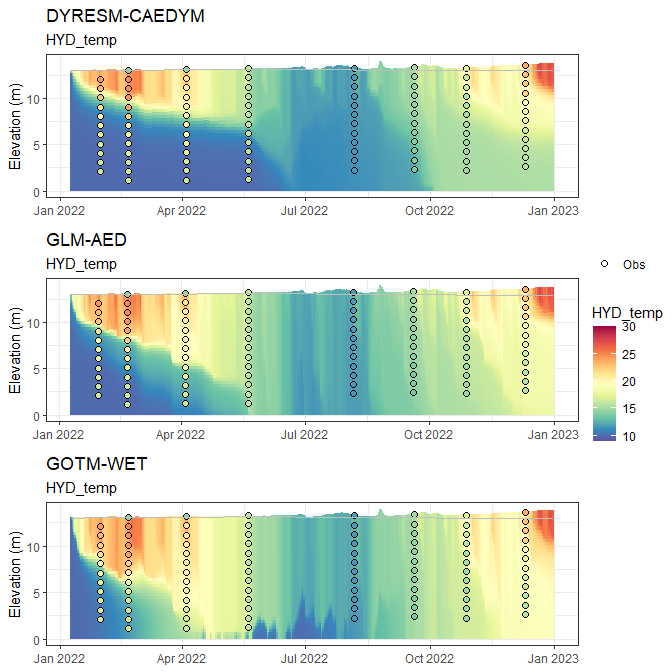
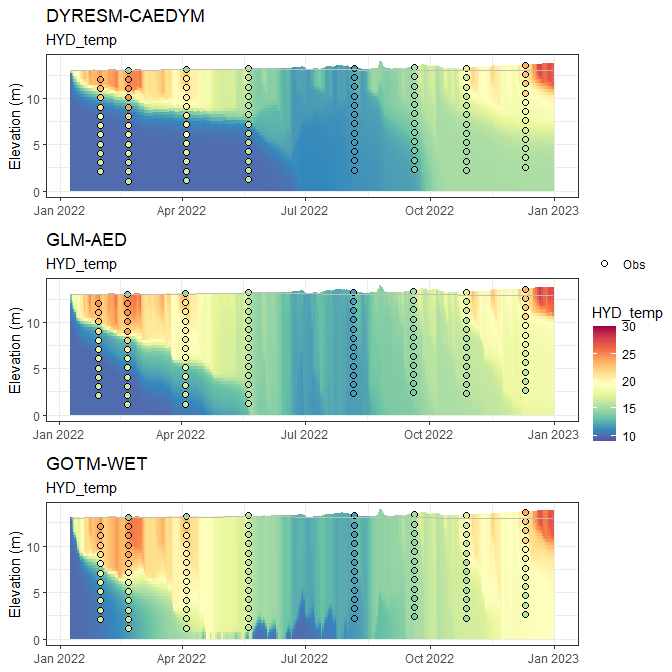
Updated README

diff --git a/README.md b/README.md
@@ -55,22 +55,39 @@ mod_ctrls <- read.csv(file.path(path, "model_controls.csv"))
 inf_factor = c("dy_cd" = 1, "glm_aed" = 1, "gotm_wet" = 1)
 outf_factor = c("dy_cd" = 1, "glm_aed" = 1, "gotm_wet" = 1)
 model <- c("dy_cd", "glm_aed", "gotm_wet")
-aeme_data <- build_ensemble(path = path, aeme_data = aeme_data, model = model, mod_ctrls = mod_ctrls, inf_factor = inf_factor, ext_elev = 5, use_bgc = FALSE, use_lw = TRUE)
-#> Building simulation for Wainamu [2023-09-01 15:33:29.049674]
+aeme_data <- build_ensemble(path = path, aeme_data = aeme_data, model = model, mod_ctrls = mod_ctrls, inf_factor = inf_factor, ext_elev = 5, use_bgc = TRUE, use_lw = TRUE)
+#> Building simulation for Wainamu [2023-09-05 12:39:16.413652]
 #> Using observed water level
 #> Estimating temperature using Stefan & Preud'homme (2007)...
 #> Building DYRESM-CAEDYM for lake wainamu
 #> Copied in DYRESM par file
+#> [1] "TEMPTURE SALINITY DO PO4 DOPL POPL PIP TP NH4 NO3 DONL PONL TN DOCL POCL SiO2 CYANO CHLOR FDIAT TCHLA SSOL1"
 #> Downsampling bathymetry
 #> Building GLM3-AED2 model for lake wainamu
 #> Copied in GLM nml file
+#> Copied in AED nml file
+#>    oxy_initial   = 625 replaced with 312.5
+#>    frp_initial = 0.3229 replaced with 0.3229
+#>      dop_initial  = 0.3229 replaced with 0.3229
+#>      pop_initial  = 0.3229 replaced with 0.3229
+#>    amm_initial = 1.4279 replaced with 1.4279
+#>    nit_initial = 1.0709 replaced with 1.0709
+#>      don_initial  = 21.4183 replaced with 21.4183
+#>      pon_initial  = 7.1394 replaced with 7.1394
+#>      doc_initial  = 41.6285 replaced with 41.6285
+#>      poc_initial  = 16.6514 replaced with 16.6514
+#>    rsi_initial = 1 replaced with 1
+#> PHY_cyano 0.24022 replaced with 0.24022
+#> PHY_green 0.300275 replaced with 0.300275
+#> PHY_diatom 0.300275 replaced with 0.300275
+#>     ss_initial   = 3,3 replaced with 3,
 #> Building GOTM-WET for lake wainamu
 #> Copied all GOTM configuration files
 aeme_data <- run_aeme(aeme_data = aeme_data, model = model, verbose = FALSE, path = path, parallel = TRUE, mod_ctrls = mod_ctrls)
-#> Running models in parallel... [2023-09-01 15:33:31.757677]
-#> Model run complete![2023-09-01 15:33:45.152485]
-#> Reading models in parallel... [2023-09-01 15:33:46.633558]
-#> Model reading complete![2023-09-01 15:33:47.298898]
+#> Running models in parallel... [2023-09-05 12:39:31.100874]
+#> Model run complete![2023-09-05 12:43:05.861538]
+#> Reading models in parallel... [2023-09-05 12:43:18.606444]
+#> Model reading complete![2023-09-05 12:43:24.986415]
 ```
 
 The model input and output (I/O) is handled as it’s own S4 object of
@@ -105,9 +122,9 @@ aeme_data
 #> -------------------------------------------------------------------
 #>   Configuration
 #>           Physical   |   Biogeochemical
-#> DY-CD    : Present    |   Absent 
-#> GLM-AED  : Present    |   Absent 
-#> GOTM-WET : Present    |   Absent 
+#> DY-CD    : Present    |   Present
+#> GLM-AED  : Present    |   Present
+#> GOTM-WET : Present    |   Present
 #> -------------------------------------------------------------------
 #>   Observations
 #> Lake: Present; Level: Present
@@ -255,111 +272,125 @@ summary(aeme_data)
 #> Outputs:
 #>    DY-CD 
 #>     HYD_evap        HYD_evap_flux           HYD_Qe        HYD_evap_vol   
-#>  Min.   :0.000000   Min.   :0.000e+00   Min.   :-32.94   Min.   :   0.0  
-#>  1st Qu.:0.001270   1st Qu.:1.470e-08   1st Qu.: 31.53   1st Qu.: 198.9  
-#>  Median :0.002341   Median :2.710e-08   Median : 61.18   Median : 364.6  
-#>  Mean   :0.002795   Mean   :3.235e-08   Mean   : 74.50   Mean   : 432.5  
-#>  3rd Qu.:0.004018   3rd Qu.:4.651e-08   3rd Qu.:105.51   3rd Qu.: 619.6  
-#>  Max.   :0.009261   Max.   :1.072e-07   Max.   :272.76   Max.   :1436.3  
+#>  Min.   :0.000000   Min.   :0.000e+00   Min.   :-33.59   Min.   :   0.0  
+#>  1st Qu.:0.001294   1st Qu.:1.498e-08   1st Qu.: 31.15   1st Qu.: 198.8  
+#>  Median :0.002379   Median :2.754e-08   Median : 60.23   Median : 370.6  
+#>  Mean   :0.002811   Mean   :3.253e-08   Mean   : 74.04   Mean   : 434.7  
+#>  3rd Qu.:0.004028   3rd Qu.:4.662e-08   3rd Qu.:106.53   3rd Qu.: 631.5  
+#>  Max.   :0.009202   Max.   :1.065e-07   Max.   :272.45   Max.   :1432.5  
 #>    HYD_precip         HYD_inflow        HYD_outflow           LAYERS       
-#>  Min.   :0.000000   Min.   :0.002698   Min.   :0.000000   Min.   : 0.3243  
-#>  1st Qu.:0.000250   1st Qu.:0.009058   1st Qu.:0.001491   1st Qu.: 3.5517  
-#>  Median :0.001600   Median :0.028886   Median :0.028332   Median : 6.8499  
-#>  Mean   :0.006457   Mean   :0.058170   Mean   :0.055896   Mean   : 6.8127  
-#>  3rd Qu.:0.008320   3rd Qu.:0.069992   3rd Qu.:0.073921   3rd Qu.:10.1503  
-#>  Max.   :0.061450   Max.   :0.770015   Max.   :0.357712   Max.   :14.0232  
-#>      DEPTHS          HYD_temp        CHM_salt    CHM_oxy       PHS_frp   
-#>  Min.   : 0.000   Min.   :10.00   Min.   :0   Min.   :-99   Min.   :-99  
-#>  1st Qu.: 3.221   1st Qu.:11.28   1st Qu.:0   1st Qu.:-99   1st Qu.:-99  
-#>  Median : 6.519   Median :12.97   Median :0   Median :-99   Median :-99  
-#>  Mean   : 6.480   Mean   :14.11   Mean   :0   Mean   :-99   Mean   :-99  
-#>  3rd Qu.: 9.817   3rd Qu.:15.92   3rd Qu.:0   3rd Qu.:-99   3rd Qu.:-99  
-#>  Max.   :13.673   Max.   :27.73   Max.   :0   Max.   :-99   Max.   :-99  
-#>     PHS_dop       PHS_pop       PHS_pip        PHS_tp       NIT_amm   
-#>  Min.   :-99   Min.   :-99   Min.   :-99   Min.   :-99   Min.   :-99  
-#>  1st Qu.:-99   1st Qu.:-99   1st Qu.:-99   1st Qu.:-99   1st Qu.:-99  
-#>  Median :-99   Median :-99   Median :-99   Median :-99   Median :-99  
-#>  Mean   :-99   Mean   :-99   Mean   :-99   Mean   :-99   Mean   :-99  
-#>  3rd Qu.:-99   3rd Qu.:-99   3rd Qu.:-99   3rd Qu.:-99   3rd Qu.:-99  
-#>  Max.   :-99   Max.   :-99   Max.   :-99   Max.   :-99   Max.   :-99  
-#>     NIT_nit       NIT_don       NIT_pon        NIT_tn       CAR_doc   
-#>  Min.   :-99   Min.   :-99   Min.   :-99   Min.   :-99   Min.   :-99  
-#>  1st Qu.:-99   1st Qu.:-99   1st Qu.:-99   1st Qu.:-99   1st Qu.:-99  
-#>  Median :-99   Median :-99   Median :-99   Median :-99   Median :-99  
-#>  Mean   :-99   Mean   :-99   Mean   :-99   Mean   :-99   Mean   :-99  
-#>  3rd Qu.:-99   3rd Qu.:-99   3rd Qu.:-99   3rd Qu.:-99   3rd Qu.:-99  
-#>  Max.   :-99   Max.   :-99   Max.   :-99   Max.   :-99   Max.   :-99  
-#>     CAR_poc       SIL_rsi      PHY_cyano     PHY_green     PHY_diatom 
-#>  Min.   :-99   Min.   :-99   Min.   :-99   Min.   :-99   Min.   :-99  
-#>  1st Qu.:-99   1st Qu.:-99   1st Qu.:-99   1st Qu.:-99   1st Qu.:-99  
-#>  Median :-99   Median :-99   Median :-99   Median :-99   Median :-99  
-#>  Mean   :-99   Mean   :-99   Mean   :-99   Mean   :-99   Mean   :-99  
-#>  3rd Qu.:-99   3rd Qu.:-99   3rd Qu.:-99   3rd Qu.:-99   3rd Qu.:-99  
-#>  Max.   :-99   Max.   :-99   Max.   :-99   Max.   :-99   Max.   :-99  
-#>    PHY_tchla      NCS_ss1   
-#>  Min.   :-99   Min.   :-99  
-#>  1st Qu.:-99   1st Qu.:-99  
-#>  Median :-99   Median :-99  
-#>  Mean   :-99   Mean   :-99  
-#>  3rd Qu.:-99   3rd Qu.:-99  
-#>  Max.   :-99   Max.   :-99  
+#>  Min.   :0.000000   Min.   :0.002699   Min.   :0.000000   Min.   : 0.3241  
+#>  1st Qu.:0.000250   1st Qu.:0.009063   1st Qu.:0.001492   1st Qu.: 3.5499  
+#>  Median :0.001600   Median :0.028893   Median :0.028338   Median : 6.8468  
+#>  Mean   :0.006457   Mean   :0.058184   Mean   :0.055909   Mean   : 6.8103  
+#>  3rd Qu.:0.008320   3rd Qu.:0.070008   3rd Qu.:0.073938   3rd Qu.:10.1455  
+#>  Max.   :0.061450   Max.   :0.770166   Max.   :0.357783   Max.   :14.0204  
+#>      DEPTHS          HYD_temp        CHM_salt    CHM_oxy      
+#>  Min.   : 0.000   Min.   :10.00   Min.   :0   Min.   : 0.000  
+#>  1st Qu.: 3.219   1st Qu.:10.79   1st Qu.:0   1st Qu.: 7.270  
+#>  Median : 6.516   Median :12.57   Median :0   Median : 8.980  
+#>  Mean   : 6.478   Mean   :13.81   Mean   :0   Mean   : 8.193  
+#>  3rd Qu.: 9.814   3rd Qu.:15.64   3rd Qu.:0   3rd Qu.: 9.828  
+#>  Max.   :13.670   Max.   :27.77   Max.   :0   Max.   :10.952  
+#>     PHS_frp             PHS_dop             PHS_pop         
+#>  Min.   :7.216e-05   Min.   :7.443e-05   Min.   :5.067e-06  
+#>  1st Qu.:4.690e-04   1st Qu.:5.059e-04   1st Qu.:8.878e-05  
+#>  Median :1.521e-03   Median :2.832e-03   Median :1.456e-04  
+#>  Mean   :6.700e-03   Mean   :4.670e-03   Mean   :4.200e-04  
+#>  3rd Qu.:8.284e-03   3rd Qu.:9.196e-03   3rd Qu.:2.444e-04  
+#>  Max.   :2.894e-01   Max.   :1.236e-02   Max.   :9.974e-03  
+#>     PHS_pip              PHS_tp             NIT_amm         
+#>  Min.   :2.877e-06   Min.   :0.0003734   Min.   :0.0002329  
+#>  1st Qu.:1.231e-04   1st Qu.:0.0027870   1st Qu.:0.0020143  
+#>  Median :2.376e-04   Median :0.0061742   Median :0.0050748  
+#>  Mean   :4.528e-04   Mean   :0.0130187   Mean   :0.0134280  
+#>  3rd Qu.:7.450e-04   3rd Qu.:0.0205058   3rd Qu.:0.0185083  
+#>  Max.   :6.983e-03   Max.   :0.2979069   Max.   :0.5696009  
+#>     NIT_nit             NIT_don            NIT_pon              NIT_tn       
+#>  Min.   :0.0002215   Min.   :0.005025   Min.   :6.176e-05   Min.   :0.01016  
+#>  1st Qu.:0.0064902   1st Qu.:0.014248   1st Qu.:1.041e-03   1st Qu.:0.05666  
+#>  Median :0.0202467   Median :0.106875   Median :1.500e-03   Median :0.14154  
+#>  Mean   :0.0341153   Mean   :0.142663   Mean   :3.636e-03   Mean   :0.19958  
+#>  3rd Qu.:0.0457808   3rd Qu.:0.283238   3rd Qu.:2.463e-03   3rd Qu.:0.36059  
+#>  Max.   :0.1607811   Max.   :0.322018   Max.   :9.951e-02   Max.   :0.97677  
+#>     CAR_doc          CAR_poc             SIL_rsi         PHY_cyano     
+#>  Min.   :0.0127   Min.   :0.0003723   Min.   :0.9991   Min.   :0.1000  
+#>  1st Qu.:0.0613   1st Qu.:0.0056565   1st Qu.:1.0000   1st Qu.:0.1000  
+#>  Median :0.1713   Median :0.0080941   Median :5.9044   Median :0.1000  
+#>  Mean   :0.2692   Mean   :0.0149946   Mean   :5.2742   Mean   :0.5430  
+#>  3rd Qu.:0.4454   3rd Qu.:0.0133522   3rd Qu.:9.0529   3rd Qu.:0.3397  
+#>  Max.   :5.3598   Max.   :0.1994947   Max.   :9.7407   Max.   :8.2644  
+#>    PHY_green        PHY_diatom       PHY_tchla          NCS_ss1       
+#>  Min.   :0.1000   Min.   :0.1000   Min.   : 0.3000   Min.   : 0.1785  
+#>  1st Qu.:0.1000   1st Qu.:0.1000   1st Qu.: 0.3338   1st Qu.: 0.4654  
+#>  Median :0.2552   Median :0.1003   Median : 0.6721   Median : 0.9466  
+#>  Mean   :0.4201   Mean   :0.3103   Mean   : 1.2739   Mean   : 1.4816  
+#>  3rd Qu.:0.5528   3rd Qu.:0.2083   3rd Qu.: 1.5607   3rd Qu.: 2.3759  
+#>  Max.   :4.8098   Max.   :7.5648   Max.   :12.5828   Max.   :15.3231  
 #>    GLM-AED 
 #>       Date           DEPTH           HYD_V             HYD_A0      
-#>  Min.   :19002   Min.   :13.00   Min.   :1092561   Min.   :151320  
-#>  1st Qu.:19091   1st Qu.:13.19   1st Qu.:1122745   1st Qu.:153695  
-#>  Median :19180   Median :13.29   Median :1137284   Median :154706  
-#>  Mean   :19180   Mean   :13.33   Mean   :1144386   Mean   :155170  
-#>  3rd Qu.:19268   3rd Qu.:13.45   3rd Qu.:1163153   3rd Qu.:156491  
-#>  Max.   :19357   Max.   :14.05   Max.   :1260347   Max.   :163032  
+#>  Min.   :19002   Min.   :12.99   Min.   :1092074   Min.   :151274  
+#>  1st Qu.:19091   1st Qu.:13.19   1st Qu.:1122307   1st Qu.:153664  
+#>  Median :19180   Median :13.28   Median :1136958   Median :154684  
+#>  Mean   :19180   Mean   :13.33   Mean   :1143994   Mean   :155142  
+#>  3rd Qu.:19268   3rd Qu.:13.45   3rd Qu.:1162789   3rd Qu.:156466  
+#>  Max.   :19357   Max.   :14.05   Max.   :1260017   Max.   :163010  
 #>     HYD_evap        HYD_evap_flux           HYD_Qe        HYD_evap_vol   
 #>  Min.   :0.000000   Min.   :0.000e+00   Min.   :  0.00   Min.   :   0.0  
-#>  1st Qu.:0.001188   1st Qu.:1.392e-08   1st Qu.: 33.83   1st Qu.: 184.4  
-#>  Median :0.002227   Median :2.568e-08   Median : 63.47   Median : 345.3  
-#>  Mean   :0.002609   Mean   :2.924e-08   Mean   : 74.01   Mean   : 404.7  
-#>  3rd Qu.:0.003711   3rd Qu.:4.125e-08   3rd Qu.:105.01   3rd Qu.: 572.1  
-#>  Max.   :0.009087   Max.   :9.965e-08   Max.   :258.76   Max.   :1430.5  
-#>    HYD_precip         HYD_inflow       HYD_outflow           LAYERS       
-#>  Min.   :0.000000   Min.   :0.00000   Min.   :0.000000   Min.   : 0.3249  
-#>  1st Qu.:0.000250   1st Qu.:0.00907   1st Qu.:0.005649   1st Qu.: 3.5590  
-#>  Median :0.001555   Median :0.02883   Median :0.031296   Median : 6.8596  
-#>  Mean   :0.006469   Mean   :0.05800   Mean   :0.059817   Mean   : 6.8317  
-#>  3rd Qu.:0.008320   3rd Qu.:0.07011   3rd Qu.:0.076902   3rd Qu.:10.1709  
-#>  Max.   :0.061450   Max.   :0.74375   Max.   :0.363141   Max.   :14.0512  
-#>      DEPTHS          HYD_temp        CHM_salt            CHM_oxy   
-#>  Min.   : 0.000   Min.   :10.00   Min.   :0.000e+00   Min.   :-99  
-#>  1st Qu.: 3.227   1st Qu.:12.44   1st Qu.:4.334e-05   1st Qu.:-99  
-#>  Median : 6.533   Median :14.79   Median :5.846e-05   Median :-99  
-#>  Mean   : 6.498   Mean   :15.36   Mean   :5.521e-05   Mean   :-99  
-#>  3rd Qu.: 9.837   3rd Qu.:18.07   3rd Qu.:7.619e-05   3rd Qu.:-99  
-#>  Max.   :13.700   Max.   :27.75   Max.   :1.256e-04   Max.   :-99  
-#>     PHS_frp       PHS_dop       PHS_pop       PHS_pip        PHS_tp   
-#>  Min.   :-99   Min.   :-99   Min.   :-99   Min.   :-99   Min.   :-99  
-#>  1st Qu.:-99   1st Qu.:-99   1st Qu.:-99   1st Qu.:-99   1st Qu.:-99  
-#>  Median :-99   Median :-99   Median :-99   Median :-99   Median :-99  
-#>  Mean   :-99   Mean   :-99   Mean   :-99   Mean   :-99   Mean   :-99  
-#>  3rd Qu.:-99   3rd Qu.:-99   3rd Qu.:-99   3rd Qu.:-99   3rd Qu.:-99  
-#>  Max.   :-99   Max.   :-99   Max.   :-99   Max.   :-99   Max.   :-99  
-#>     NIT_amm       NIT_nit       NIT_don       NIT_pon        NIT_tn   
-#>  Min.   :-99   Min.   :-99   Min.   :-99   Min.   :-99   Min.   :-99  
-#>  1st Qu.:-99   1st Qu.:-99   1st Qu.:-99   1st Qu.:-99   1st Qu.:-99  
-#>  Median :-99   Median :-99   Median :-99   Median :-99   Median :-99  
-#>  Mean   :-99   Mean   :-99   Mean   :-99   Mean   :-99   Mean   :-99  
-#>  3rd Qu.:-99   3rd Qu.:-99   3rd Qu.:-99   3rd Qu.:-99   3rd Qu.:-99  
-#>  Max.   :-99   Max.   :-99   Max.   :-99   Max.   :-99   Max.   :-99  
-#>     CAR_doc       CAR_poc       SIL_rsi      PHY_cyano     PHY_green  
-#>  Min.   :-99   Min.   :-99   Min.   :-99   Min.   :-99   Min.   :-99  
-#>  1st Qu.:-99   1st Qu.:-99   1st Qu.:-99   1st Qu.:-99   1st Qu.:-99  
-#>  Median :-99   Median :-99   Median :-99   Median :-99   Median :-99  
-#>  Mean   :-99   Mean   :-99   Mean   :-99   Mean   :-99   Mean   :-99  
-#>  3rd Qu.:-99   3rd Qu.:-99   3rd Qu.:-99   3rd Qu.:-99   3rd Qu.:-99  
-#>  Max.   :-99   Max.   :-99   Max.   :-99   Max.   :-99   Max.   :-99  
-#>    PHY_diatom    PHY_tchla      NCS_ss1   
-#>  Min.   :-99   Min.   :-99   Min.   :-99  
-#>  1st Qu.:-99   1st Qu.:-99   1st Qu.:-99  
-#>  Median :-99   Median :-99   Median :-99  
-#>  Mean   :-99   Mean   :-99   Mean   :-99  
-#>  3rd Qu.:-99   3rd Qu.:-99   3rd Qu.:-99  
-#>  Max.   :-99   Max.   :-99   Max.   :-99  
+#>  1st Qu.:0.001198   1st Qu.:1.400e-08   1st Qu.: 33.91   1st Qu.: 185.1  
+#>  Median :0.002233   Median :2.570e-08   Median : 63.63   Median : 346.4  
+#>  Mean   :0.002625   Mean   :2.942e-08   Mean   : 74.46   Mean   : 407.2  
+#>  3rd Qu.:0.003809   3rd Qu.:4.163e-08   3rd Qu.:107.67   3rd Qu.: 584.6  
+#>  Max.   :0.009051   Max.   :9.905e-08   Max.   :257.16   Max.   :1420.8  
+#>    HYD_precip         HYD_inflow        HYD_outflow          LAYERS       
+#>  Min.   :0.000000   Min.   :0.000000   Min.   :0.00000   Min.   : 0.3249  
+#>  1st Qu.:0.000250   1st Qu.:0.009072   1st Qu.:0.00565   1st Qu.: 3.5582  
+#>  Median :0.001555   Median :0.028837   Median :0.03130   Median : 6.8593  
+#>  Mean   :0.006469   Mean   :0.058014   Mean   :0.05983   Mean   : 6.8305  
+#>  3rd Qu.:0.008320   3rd Qu.:0.070124   3rd Qu.:0.07691   3rd Qu.:10.1690  
+#>  Max.   :0.061450   Max.   :0.743853   Max.   :0.36319   Max.   :14.0492  
+#>      DEPTHS          HYD_temp        CHM_salt            CHM_oxy      
+#>  Min.   : 0.000   Min.   :10.00   Min.   :0.000e+00   Min.   : 0.000  
+#>  1st Qu.: 3.227   1st Qu.:12.36   1st Qu.:4.432e-05   1st Qu.: 7.461  
+#>  Median : 6.532   Median :14.65   Median :5.833e-05   Median : 9.129  
+#>  Mean   : 6.497   Mean   :15.23   Mean   :5.509e-05   Mean   : 8.010  
+#>  3rd Qu.: 9.835   3rd Qu.:17.77   3rd Qu.:7.640e-05   3rd Qu.: 9.899  
+#>  Max.   :13.698   Max.   :28.20   Max.   :1.276e-04   Max.   :10.673  
+#>     PHS_frp            PHS_dop             PHS_pop             PHS_pip         
+#>  Min.   :0.001002   Min.   :0.0007546   Min.   :7.961e-06   Min.   :8.559e-05  
+#>  1st Qu.:0.001328   1st Qu.:0.0014283   1st Qu.:6.406e-05   1st Qu.:2.297e-04  
+#>  Median :0.001560   Median :0.0074318   Median :2.954e-04   Median :2.964e-04  
+#>  Mean   :0.003241   Mean   :0.0069629   Mean   :6.086e-04   Mean   :7.681e-04  
+#>  3rd Qu.:0.003093   3rd Qu.:0.0116379   3rd Qu.:6.344e-04   3rd Qu.:5.685e-04  
+#>  Max.   :0.038791   Max.   :0.0145613   Max.   :9.849e-03   Max.   :1.086e-02  
+#>      PHS_tp            NIT_amm            NIT_nit           NIT_don       
+#>  Min.   :0.002188   Min.   :0.002301   Min.   :0.00000   Min.   :0.00000  
+#>  1st Qu.:0.004110   1st Qu.:0.009483   1st Qu.:0.01016   1st Qu.:0.01511  
+#>  Median :0.009710   Median :0.010790   Median :0.01425   Median :0.06873  
+#>  Mean   :0.011577   Mean   :0.022725   Mean   :0.01817   Mean   :0.09002  
+#>  3rd Qu.:0.014208   3rd Qu.:0.014289   3rd Qu.:0.02583   3rd Qu.:0.12988  
+#>  Max.   :0.064760   Max.   :0.676093   Max.   :0.04796   Max.   :0.29977  
+#>     NIT_pon              NIT_tn           CAR_doc           CAR_poc        
+#>  Min.   :0.0001641   Min.   :0.02750   Min.   :0.02057   Min.   :0.001279  
+#>  1st Qu.:0.0012736   1st Qu.:0.06497   1st Qu.:0.12616   1st Qu.:0.009451  
+#>  Median :0.0046951   Median :0.09957   Median :0.47203   Median :0.029289  
+#>  Mean   :0.0071144   Mean   :0.13819   Mean   :0.44285   Mean   :0.033926  
+#>  3rd Qu.:0.0081164   3rd Qu.:0.17119   3rd Qu.:0.68453   3rd Qu.:0.049275  
+#>  Max.   :0.0984655   Max.   :0.89379   Max.   :1.00433   Max.   :0.196597  
+#>     SIL_rsi         PHY_cyano          PHY_green          PHY_diatom      
+#>  Min.   : 1.012   Min.   :  0.1489   Min.   : 0.03000   Min.   : 0.03000  
+#>  1st Qu.: 5.750   1st Qu.:  2.3268   1st Qu.: 0.04408   1st Qu.: 0.03000  
+#>  Median : 9.144   Median :  5.5752   Median : 0.04950   Median : 0.03011  
+#>  Mean   : 8.294   Mean   : 13.6700   Mean   : 1.72090   Mean   : 0.39090  
+#>  3rd Qu.:10.269   3rd Qu.: 22.3358   3rd Qu.: 0.21336   3rd Qu.: 0.03093  
+#>  Max.   :42.581   Max.   :106.3398   Max.   :68.16477   Max.   :18.43895  
+#>    PHY_tchla           NCS_ss1      
+#>  Min.   : 0.05381   Min.   :0.8269  
+#>  1st Qu.: 0.65935   1st Qu.:1.5804  
+#>  Median : 2.26803   Median :1.8710  
+#>  Mean   : 3.90082   Mean   :2.0662  
+#>  3rd Qu.: 6.07677   3rd Qu.:2.6326  
+#>  Max.   :25.41581   Max.   :5.9020  
 #>    GOTM-WET 
 #>      HYD_V           HYD_evap         HYD_evap_flux           HYD_Qe      
 #>  Min.   :-10101   Min.   :1.242e-05   Min.   :1.438e-10   Min.   :-34.91  
@@ -375,41 +406,48 @@ summary(aeme_data)
 #>  Mean   : 368.882   Mean   :6.455e-03   Mean   :0.056056   Mean   : 6.8179  
 #>  3rd Qu.: 502.877   3rd Qu.:8.860e-03   3rd Qu.:0.075321   3rd Qu.:10.1664  
 #>  Max.   :1345.520   Max.   :6.127e-02   Max.   :0.354859   Max.   :13.9490  
-#>      DEPTHS          HYD_temp        CHM_salt    CHM_oxy       PHS_frp   
-#>  Min.   : 0.000   Min.   :10.00   Min.   :0   Min.   :-99   Min.   :-99  
-#>  1st Qu.: 3.223   1st Qu.:13.18   1st Qu.:0   1st Qu.:-99   1st Qu.:-99  
-#>  Median : 6.532   Median :16.00   Median :0   Median :-99   Median :-99  
-#>  Mean   : 6.485   Mean   :16.34   Mean   :0   Mean   :-99   Mean   :-99  
-#>  3rd Qu.: 9.835   3rd Qu.:19.22   3rd Qu.:0   3rd Qu.:-99   3rd Qu.:-99  
-#>  Max.   :13.600   Max.   :27.43   Max.   :0   Max.   :-99   Max.   :-99  
-#>     PHS_dop       PHS_pop       PHS_pip        PHS_tp       NIT_amm   
-#>  Min.   :-99   Min.   :-99   Min.   :-99   Min.   :-99   Min.   :-99  
-#>  1st Qu.:-99   1st Qu.:-99   1st Qu.:-99   1st Qu.:-99   1st Qu.:-99  
-#>  Median :-99   Median :-99   Median :-99   Median :-99   Median :-99  
-#>  Mean   :-99   Mean   :-99   Mean   :-99   Mean   :-99   Mean   :-99  
-#>  3rd Qu.:-99   3rd Qu.:-99   3rd Qu.:-99   3rd Qu.:-99   3rd Qu.:-99  
-#>  Max.   :-99   Max.   :-99   Max.   :-99   Max.   :-99   Max.   :-99  
-#>     NIT_nit       NIT_don       NIT_pon        NIT_tn       CAR_doc   
-#>  Min.   :-99   Min.   :-99   Min.   :-99   Min.   :-99   Min.   :-99  
-#>  1st Qu.:-99   1st Qu.:-99   1st Qu.:-99   1st Qu.:-99   1st Qu.:-99  
-#>  Median :-99   Median :-99   Median :-99   Median :-99   Median :-99  
-#>  Mean   :-99   Mean   :-99   Mean   :-99   Mean   :-99   Mean   :-99  
-#>  3rd Qu.:-99   3rd Qu.:-99   3rd Qu.:-99   3rd Qu.:-99   3rd Qu.:-99  
-#>  Max.   :-99   Max.   :-99   Max.   :-99   Max.   :-99   Max.   :-99  
-#>     CAR_poc       SIL_rsi      PHY_cyano     PHY_green     PHY_diatom 
-#>  Min.   :-99   Min.   :-99   Min.   :-99   Min.   :-99   Min.   :-99  
-#>  1st Qu.:-99   1st Qu.:-99   1st Qu.:-99   1st Qu.:-99   1st Qu.:-99  
-#>  Median :-99   Median :-99   Median :-99   Median :-99   Median :-99  
-#>  Mean   :-99   Mean   :-99   Mean   :-99   Mean   :-99   Mean   :-99  
-#>  3rd Qu.:-99   3rd Qu.:-99   3rd Qu.:-99   3rd Qu.:-99   3rd Qu.:-99  
-#>  Max.   :-99   Max.   :-99   Max.   :-99   Max.   :-99   Max.   :-99  
-#>    PHY_tchla      NCS_ss1   
-#>  Min.   :-99   Min.   :-99  
-#>  1st Qu.:-99   1st Qu.:-99  
-#>  Median :-99   Median :-99  
-#>  Mean   :-99   Mean   :-99  
-#>  3rd Qu.:-99   3rd Qu.:-99  
-#>  Max.   :-99   Max.   :-99  
+#>      DEPTHS          HYD_temp        CHM_salt    CHM_oxy      
+#>  Min.   : 0.000   Min.   :10.00   Min.   :0   Min.   : 1.310  
+#>  1st Qu.: 3.223   1st Qu.:13.18   1st Qu.:0   1st Qu.: 8.880  
+#>  Median : 6.532   Median :16.00   Median :0   Median : 9.669  
+#>  Mean   : 6.485   Mean   :16.34   Mean   :0   Mean   : 9.343  
+#>  3rd Qu.: 9.835   3rd Qu.:19.22   3rd Qu.:0   3rd Qu.:10.258  
+#>  Max.   :13.600   Max.   :27.43   Max.   :0   Max.   :14.650  
+#>     PHS_frp             PHS_dop             PHS_pop         
+#>  Min.   :0.0001450   Min.   :0.0004013   Min.   :4.893e-05  
+#>  1st Qu.:0.0003066   1st Qu.:0.0066156   1st Qu.:5.600e-04  
+#>  Median :0.0005590   Median :0.0090545   Median :1.628e-03  
+#>  Mean   :0.0141043   Mean   :0.0115162   Mean   :2.750e-03  
+#>  3rd Qu.:0.0008304   3rd Qu.:0.0166958   3rd Qu.:5.147e-03  
+#>  Max.   :0.1170789   Max.   :0.0243769   Max.   :9.111e-03  
+#>     PHS_pip              PHS_tp            NIT_amm            NIT_nit        
+#>  Min.   :0.000e+00   Min.   :0.006419   Min.   :0.002079   Min.   :0.001587  
+#>  1st Qu.:2.775e-05   1st Qu.:0.012846   1st Qu.:0.003830   1st Qu.:0.007506  
+#>  Median :5.538e-05   Median :0.024923   Median :0.007478   Median :0.011595  
+#>  Mean   :1.052e-04   Mean   :0.043556   Mean   :0.013903   Mean   :0.097442  
+#>  3rd Qu.:1.220e-04   3rd Qu.:0.067469   3rd Qu.:0.010570   3rd Qu.:0.018294  
+#>  Max.   :2.459e-03   Max.   :0.145438   Max.   :0.111849   Max.   :0.861838  
+#>     NIT_don            NIT_pon             NIT_tn           CAR_doc       
+#>  Min.   :0.004152   Min.   :0.001640   Min.   :0.04999   Min.   :0.09899  
+#>  1st Qu.:0.055127   1st Qu.:0.004676   1st Qu.:0.12377   1st Qu.:1.05619  
+#>  Median :0.074247   Median :0.013074   Median :0.20858   Median :1.82464  
+#>  Mean   :0.086478   Mean   :0.018668   Mean   :0.31950   Mean   :1.81158  
+#>  3rd Qu.:0.119411   3rd Qu.:0.032778   3rd Qu.:0.44266   3rd Qu.:2.16200  
+#>  Max.   :0.170476   Max.   :0.054416   Max.   :1.20272   Max.   :7.51174  
+#>     CAR_poc           SIL_rsi         PHY_cyano          PHY_green       
+#>  Min.   :0.01338   Min.   : 3.079   Min.   :  0.2714   Min.   :0.001001  
+#>  1st Qu.:0.11792   1st Qu.: 6.113   1st Qu.:  7.0923   1st Qu.:0.001997  
+#>  Median :0.21599   Median : 7.835   Median : 10.5351   Median :0.002019  
+#>  Mean   :0.40934   Mean   : 7.406   Mean   : 17.1220   Mean   :0.231376  
+#>  3rd Qu.:0.75500   3rd Qu.: 9.212   3rd Qu.: 18.0694   3rd Qu.:0.020403  
+#>  Max.   :1.06514   Max.   :10.005   Max.   :103.2571   Max.   :3.111422  
+#>    PHY_diatom         PHY_tchla          NCS_ss1        
+#>  Min.   : 0.00040   Min.   :  1.972   Min.   : 0.01069  
+#>  1st Qu.: 0.00120   1st Qu.:  7.901   1st Qu.: 0.32394  
+#>  Median : 0.00233   Median : 11.645   Median : 0.86382  
+#>  Mean   : 3.15508   Mean   : 20.508   Mean   : 1.33901  
+#>  3rd Qu.: 0.96366   3rd Qu.: 24.610   3rd Qu.: 1.85697  
+#>  Max.   :42.18958   Max.   :111.423   Max.   :10.34756  
 #> -------------------------------------------------------------------
 ```
 
